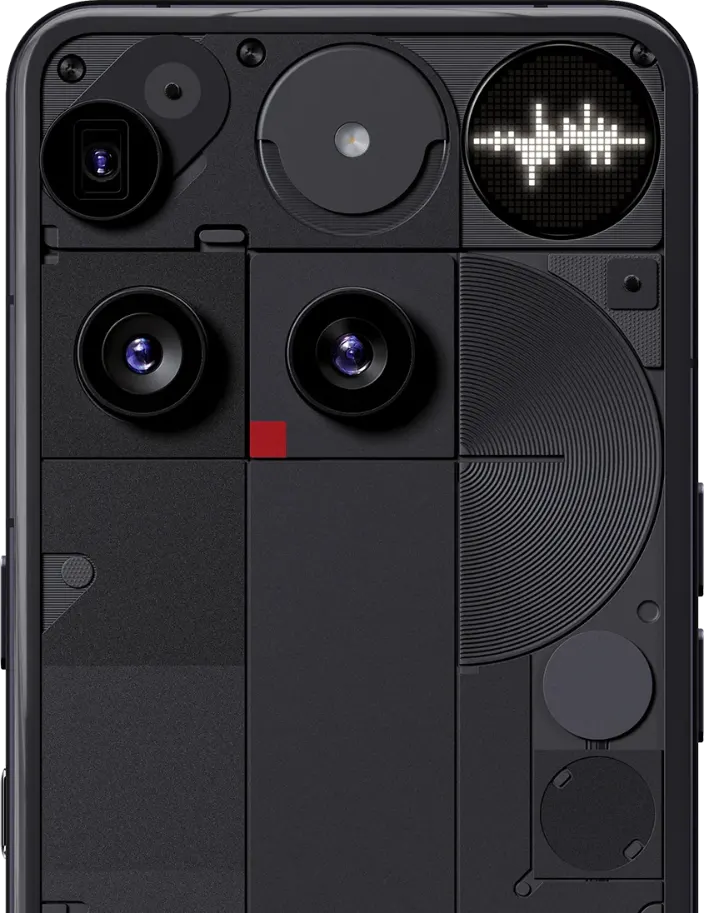
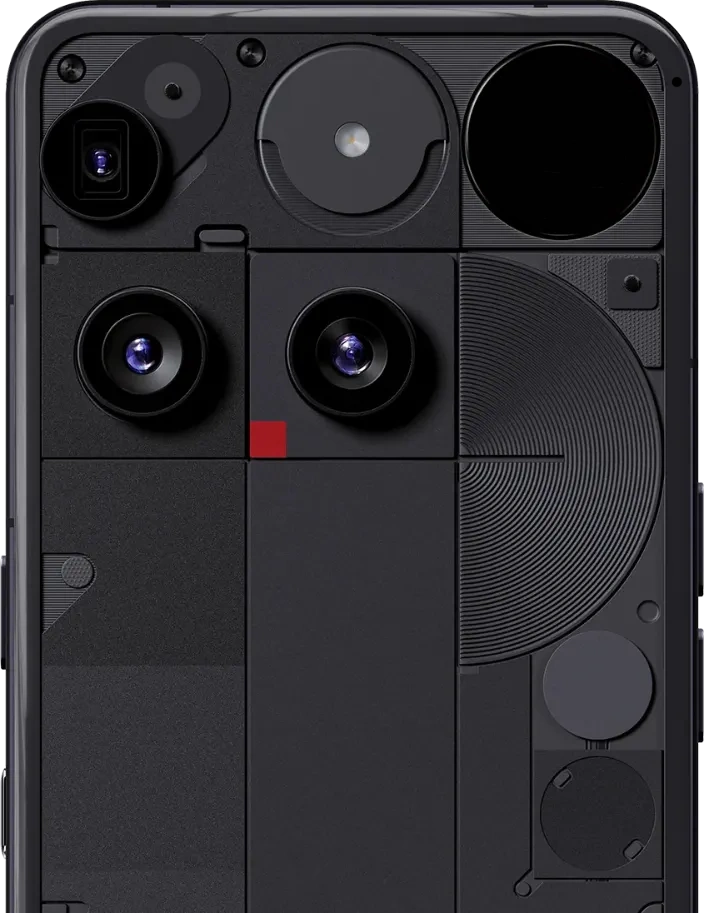
Photo du (3) au hublot noirci, netteté rétablie
- photo.filled par appareil : quand le hublot est déjà noirci dans l'image,
  aucun aplat n'est posé, le fond de la photo sert de fond
- Cotes du (3) relevées à nouveau sur la photo noircie : le hublot mesurable
  passe de 183,3 à 198 px, soit 28,13 % du cadre, consigne de cerne à 2 LEDs
- La cellule du (3) remonte de 5 à 6 px : carré de 4 px et gap de 2, comme à
  l'origine. À 5 px le carré tombait à 3 et le rendu se brouillait
- Le (4a) Pro reste en filled: false tant que sa photo montre ses LEDs

Changed region(s): [[0.6562, 0.092, 0.9375, 0.2147]]

diff --git a/src/lib/devices.ts b/src/lib/devices.ts
@@ -32,7 +32,19 @@ export type Device = Geometry & {
   ref: string;
   /** largeur / hauteur du cadre de préview. */
   aspect: number;
-  photo: { src: string; alt: string };
+  photo: {
+    src: string;
+    alt: string;
+    /**
+     * Le hublot est déjà noirci dans la photo — aucune matrice d'origine à
+     * masquer, donc aucun aplat à poser. C'est le fond de la photo qui sert de
+     * fond, biseau et reflets compris.
+     *
+     * À `false`, la photo montre encore la matrice de l'appareil et il faut la
+     * recouvrir d'un disque sombre avant d'y peindre la nôtre.
+     */
+    filled: boolean;
+  };
   disc: Disc;
   /**
    * Cerne entre la découpe de la matrice et la LED la plus proche, **en
@@ -60,11 +72,16 @@ const PHONE3: Device = {
   name: "Nothing Phone (3)",
   ref: "(3)",
   aspect: 704 / 913,
-  photo: { src: "/phone3-back.webp", alt: "Dos d'un Nothing Phone (3)" },
-  disc: { left: 0.7953, top: 0.1536, pct: 0.2604 },
-  // relevé sur la photo : première LED à ~6,8 px d'un hublot de 183,3 px, soit
-  // une largeur de LED tout juste
-  margin: 1,
+  photo: { src: "/phone3-back.webp", alt: "Dos d'un Nothing Phone (3)", filled: true },
+  /* Relevé sur la photo au hublot noirci : disque de 198 px centré en
+     (560,5 ; 140) dans un cadre de 704 × 913. C'est le **verre entier**, biseau
+     compris, et non la seule zone de LEDs que mesurait le relevé précédent
+     (183,3 px) — d'où un diamètre plus grand et une consigne de cerne plus
+     large pour le même rendu. */
+  disc: { left: 0.7962, top: 0.1533, pct: 0.2813 },
+  // champ de LEDs de ~170 px dans un verre de 198 : 14 px de cerne pour une
+  // cellule de 6,8, soit deux largeurs de LED
+  margin: 2,
   button: { left: 0.8453, top: 0.7482, pct: 0.1586 },
 };
 
@@ -86,7 +103,14 @@ const PHONE4A_PRO: Device = {
   name: "Nothing Phone (4a) Pro",
   ref: "(4a) Pro",
   aspect: 704 / 913,
-  photo: { src: "/phone4apro-back.webp", alt: "Dos d'un Nothing Phone (4a) Pro" },
+  // `filled: false` tant que la photo montre encore la matrice de l'appareil :
+  // il faut la recouvrir. À basculer dès que le hublot y sera noirci comme sur
+  // celle du (3), et les cotes ci-dessous seront à relever à nouveau.
+  photo: {
+    src: "/phone4apro-back.webp",
+    alt: "Dos d'un Nothing Phone (4a) Pro",
+    filled: false,
+  },
   disc: { left: 0.6867, top: 0.2267, pct: 0.3501 },
   // relevé sur la photo : première LED à ~24 px d'un hublot de 246,5 px
   margin: 1.5,

diff --git a/src/lib/ui/Preview.svelte b/src/lib/ui/Preview.svelte
@@ -147,14 +147,16 @@
       <div class="phone" style="width:{size}px;aspect-ratio:{dev.aspect}">
         <img src={dev.photo.src} alt={dev.photo.alt} draggable="false" />
 
-        <!-- L'aplat ne fait pas le diamètre du hublot mais celui du champ de
-             LEDs : il masque la matrice de la photo et rien de plus. Le cerne
-             visible autour est celui de la photo, biseau et reflets compris. -->
+        <!-- Quand la photo a déjà son hublot noirci, il n'y a rien à masquer :
+             le conteneur ne sert plus qu'à centrer le canvas, et c'est le fond
+             de la photo — biseau et reflets compris — qui fait le fond.
+             Sinon l'aplat couvre le champ de LEDs de la photo, et lui seul. -->
         <div
           class="disc"
-          style="left:{dev.disc.left * 100}%;top:{dev.disc.top * 100}%;width:{grid.fieldCss}px;height:{grid.fieldCss}px;background:{DISC_BG[
-            style
-          ]}"
+          style="left:{dev.disc.left * 100}%;top:{dev.disc.top * 100}%;width:{grid.fieldCss}px;height:{grid.fieldCss}px;background:{dev
+            .photo.filled
+            ? 'transparent'
+            : DISC_BG[style]}"
         >
           <canvas bind:this={cvs} style="width:{grid.cssSize}px;height:{grid.cssSize}px"
           ></canvas>

diff --git a/SPECS.md b/SPECS.md
@@ -79,9 +79,10 @@ de sa hauteur**.
 | Photo | `phone3-back.webp` | `phone4apro-back.webp` |
 | Cadre | 704 × 913 | 704 × 913 |
 | Corps dans le cadre | 98,3 % | 98,3 % |
-| Hublot — diamètre | 26,04 % | 35,01 % |
-| Hublot — centre | 79,53 % / 15,36 % | 68,67 % / 22,67 % |
-| Cerne (`margin`) | 1 LED | 1,5 LED |
+| Hublot — diamètre | 28,13 % | 35,01 % |
+| Hublot — centre | 79,62 % / 15,33 % | 68,67 % / 22,67 % |
+| Cerne (`margin`) | 2 LEDs | 1,5 LED |
+| Hublot noirci (`photo.filled`) | oui | pas encore |
 | Glyph Button — centre | 84,53 % / 74,82 % | — (il n'y en a pas) |
 
 Le **cerne** est la bande sombre entre la découpe du hublot et la LED la plus
@@ -91,8 +92,25 @@ grille qui touche sa découpe — ce qu'aucun appareil ne fait. Il est exprimé 
 de taille, alors qu'en largeurs de LED il reste juste partout et le hublot vaut
 simplement `size + 2 × margin` cellules.
 
-Les deux valeurs sont relevées sur les photos : première LED à ~6,8 px d'un
-hublot de 183,3 px sur le (3), à ~24 px d'un hublot de 246,5 px sur le (4a) Pro.
+Les deux valeurs sont relevées sur les photos. Sur le (3), le hublot mesuré est
+le **verre entier** (198 px, biseau compris) et non la seule zone de LEDs
+(~170 px) : d'où 2 LEDs de cerne. Sur le (4a) Pro, première LED à ~24 px d'un
+hublot de 246,5 px, soit 1,5.
+
+#### Photos au hublot noirci
+
+`photo.filled` dit si la photo montre encore la matrice de l'appareil.
+
+À `true` — cas du (3) — le hublot a été rempli de noir dans l'image : il n'y a
+plus rien à masquer, aucun aplat n'est posé, et c'est le fond de la photo qui
+sert de fond, biseau et reflets compris. C'est la forme la plus simple et la
+plus fidèle : un seul élément dessiné, le canvas.
+
+À `false` — cas du (4a) Pro pour l'instant — la photo montre encore ses LEDs et
+il faut les recouvrir avant d'y peindre les nôtres, d'où l'aplat décrit plus
+bas. Basculer le drapeau demande de **relever à nouveau les cotes** : noircir un
+hublot en change le diamètre mesurable, sur le (3) il est passé de 183,3 à
+198 px.
 
 #### Le même gabarit pour les deux
 
@@ -552,23 +570,23 @@ qu'aucune LED ne s'y fait rogner.
 est petite. Sur les largeurs de colonne utiles (300 → 576 px), cerne médian
 obtenu :
 
-| | consigne | dpr 1 | dpr 2 | dpr 3 |
-|---|---:|---:|---:|---:|
-| Phone (3) | 1 | 2,00 | 1,21 | 1,02 |
-| Phone (4a) Pro | 1,5 | 1,47 | 1,50 | 1,50 |
-
 Le (4a) Pro tombe juste partout : 13 LEDs dans un hublot large, la cellule est
-grosse et le pas fin. Le (3) n'y arrive qu'à partir de dpr 2 — à 576 px et
-dpr 1, ses 25 LEDs tiennent dans 150 px, soit 5 px chacune, et le cerne ne peut
-alors valoir que 2,5 LEDs ou zéro. Il n'y a pas de 1 à cette résolution ; le
-plancher fait retenir 2,5.
+grosse et le pas fin. Le (3) est plus contraint — à 576 px et dpr 1 son hublot
+fait 162 px pour 25 LEDs, la cellule ne peut valoir que 5 ou 6 px, et le cerne
+que 3,7 ou 1 LED. La consigne de 2 fait retenir 6, ce qui **prime la netteté** :
+à 6 px la LED fait 4 px de côté pour 2 de gap, à 5 elle tombe à 3 pour 2 et le
+rendu se brouille. Une matrice un peu trop grande se voit moins qu'une matrice
+molle.
 
 #### L'aplat qui masque la photo
 
-En mode téléphone, le fond sombre du disque ne fait **pas** le diamètre du
-hublot. Il ne couvre que le champ de LEDs : le cerne de la photo porte le biseau
-du verre et ses reflets, et l'aplatir sous du noir uni supprimait le seul détail
-qui donne au rendu l'air d'être posé sur l'appareil plutôt que collé dessus.
+Seulement pour une photo à `filled: false`, dont le hublot montre encore la
+matrice de l'appareil.
+
+Le fond sombre ne fait alors **pas** le diamètre du hublot. Il ne couvre que le
+champ de LEDs : le cerne de la photo porte le biseau du verre et ses reflets, et
+l'aplatir sous du noir uni supprimait le seul détail qui donne au rendu l'air
+d'être posé sur l'appareil plutôt que collé dessus.
 
 Son diamètre est le plus grand de deux exigences, plafonné au hublot :
 

diff --git a/README.md b/README.md
@@ -71,7 +71,7 @@ seul pipeline.
 | Grille | 25 × 25 = 625 cellules | 13 × 13 = 169 cellules |
 | Masque | disque (12, 12), r = 12,5 | disque (6, 6), r = 6,5 |
 | LEDs pilotables | **489** | **137** |
-| Cerne au bord du hublot | 1 LED | 1,5 LED |
+| Cerne au bord du hublot | 2 LEDs | 1,5 LED |
 | Diamètre du disque | 26,49 % de la largeur du corps | 35,62 % — 34 % de plus |
 | Glyph Button | oui | **non** |
 | Couleur | aucune — luminosité seule, 0-255 par LED | idem |
@@ -194,21 +194,22 @@ plutôt qu'étiré à 100 %.
 ### Le cerne
 
 Aucune des deux matrices ne va jusqu'au bord de son hublot : il reste une bande
-sombre entre la découpe et la première LED, relevée sur les photos à 1 largeur
+sombre entre la découpe et la première LED, relevée sur les photos à 2 largeurs
 de LED sur le (3) et 1,5 sur le (4a) Pro. C'est l'unité qui compte — en pixels
 d'écran, le cerne mentirait dès que la préview change de taille.
 
 La cellule étant entière, le cerne ne prend que des valeurs discrètes : on
 retient celle dont le cerne tombe le plus près de la consigne, avec un plancher
-d'une demi-LED. Ça marche bien sur le (4a) Pro à toutes les densités ; sur le (3)
-il faut un écran en dpr ≥ 2, ses 25 LEDs ne tenant qu'en 5 px chacune à 576 px.
+d'une demi-LED. Quand deux valeurs se valent, **la netteté prime** : à 576 px et
+dpr 1, le (3) rend ses LEDs en 6 px — 4 px de carré, 2 de gap — plutôt qu'en 5,
+où le carré tombe à 3 et le rendu se brouille.
 
-Le fond sombre ne couvre que le champ de LEDs, pas tout le hublot : le cerne de
-la photo porte le biseau du verre et ses reflets, et l'aplatir sous du noir uni
-enlevait le seul détail qui pose le rendu sur l'appareil au lieu de le coller
-dessus. Il est dimensionné pour contenir toutes les LEDs coins compris — le
-masque teste le centre des cellules, donc les LEDs des rangées extrêmes
-débordent du rayon nominal, et **aucune ne doit jamais être rognée**.
+Quand la photo a son hublot déjà noirci (`photo.filled`), il n'y a rien à
+masquer : c'est le fond de la photo qui sert de fond, biseau et reflets compris,
+et le canvas est le seul élément dessiné. Sinon un aplat couvre le champ de LEDs
+de la photo, et lui seul. Il est dimensionné pour contenir toutes les LEDs coins
+compris — le masque teste le centre des cellules, donc les LEDs des rangées
+extrêmes débordent du rayon nominal, et **aucune ne doit jamais être rognée**.
 
 ### Rendu des LED : sharp / soft
 
